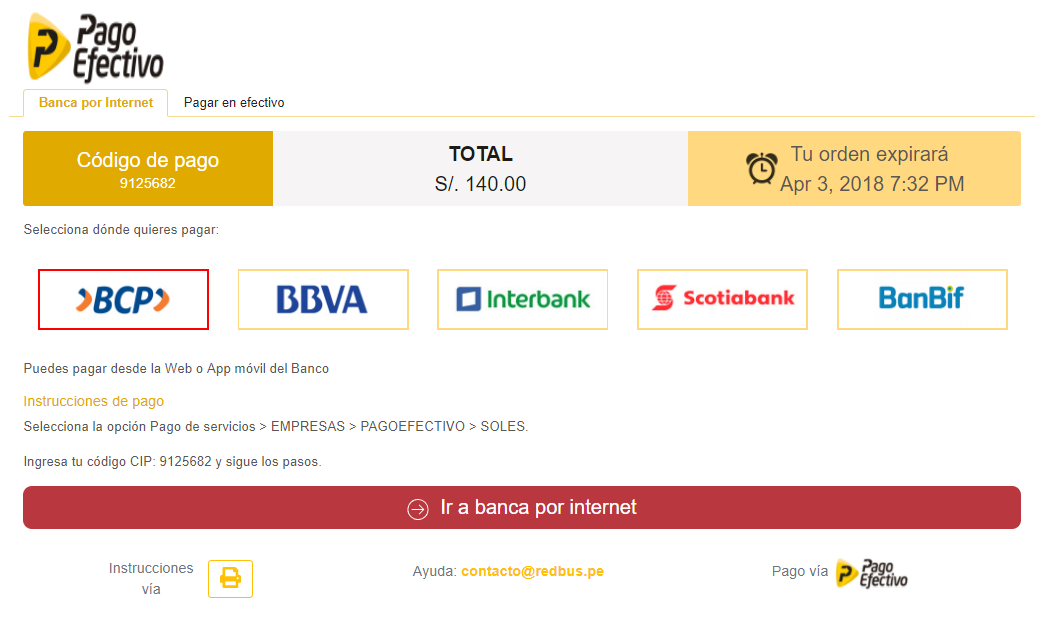
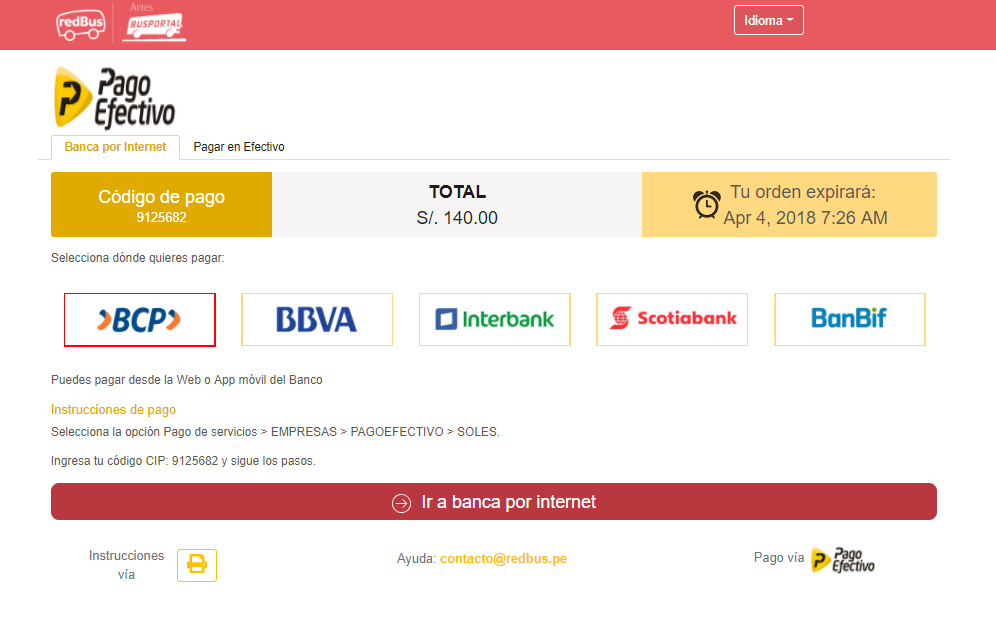
redireccionando correo

diff --git a/src/components/Footer.js b/src/components/Footer.js
@@ -13,7 +13,7 @@ const Footer = () => (
       </div>
 
       <div className="col-md-3 ">
-        <p><span className="text-secondary">Ayuda: </span><a className="text-warning font-weight-bold" href="cont">contacto@redbus.pe</a></p>
+        <p><span className="text-secondary">Ayuda: </span><a className="text-warning font-weight-bold" href ='mailto:contacto@redbus.pe' target='_top'>contacto@redbus.pe</a></p>
       </div>
 
       <div className="col-md-3 ">
